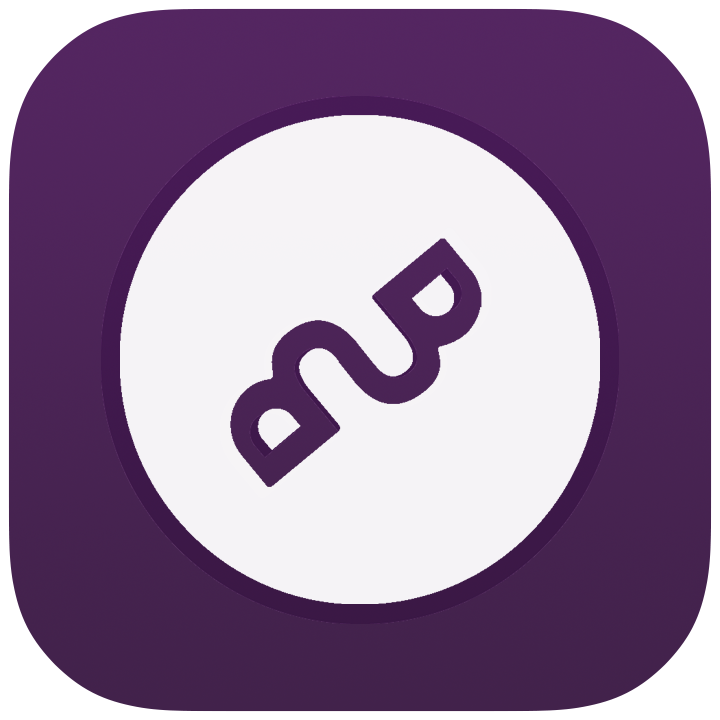
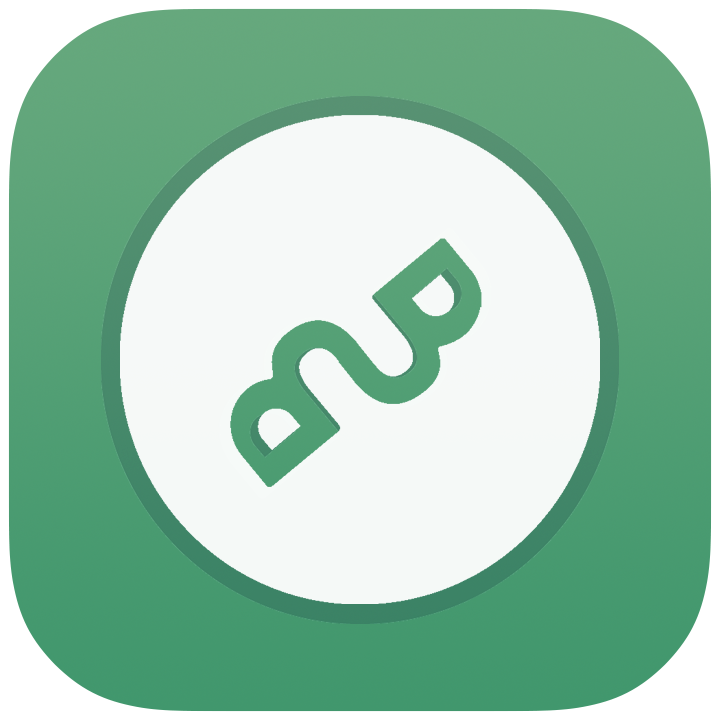
Styling: Adjust Colors

diff --git a/components/layout/Navigation.vue b/components/layout/Navigation.vue
@@ -3,7 +3,9 @@
     <div class="w-full">
       <nav class="navigation">
         <div class="brand">
-          <n-link to="/">get it!</n-link>
+          <n-link to="/" exact>
+            <img src="/img/logo.svg" alt="" width="32" height="32" />
+          </n-link>
         </div>
         <div class="ml-3">
           <ul>
@@ -39,7 +41,7 @@ export default {
 </script>
 <style lang="scss">
 .navigation {
-  @apply relative flex items-center bg-primary rounded-lg text-grey antialiased shadow px-2 py-2;
+  @apply relative flex items-center bg-white rounded-lg text-black antialiased shadow px-2 py-2;
 
   @screen sm {
     @apply px-3;
@@ -53,10 +55,10 @@ export default {
     }
 
     a {
-      @apply text-grey no-underline;
+      @apply text-primary no-underline;
 
       &:hover {
-        @apply text-white;
+        @apply text-info;
       }
     }
 
@@ -74,11 +76,15 @@ export default {
 
     a {
       @apply flex items-center;
-      @apply text-grey px-3 py-2 mx-0 rounded-lg uppercase text-xs font-bold tracking-wider no-underline;
-      @apply transition duration-300 ease-in-out;
+      @apply text-primary px-3 py-2 mx-0 rounded-md uppercase text-xs font-bold tracking-wider no-underline;
+      @apply transition duration-200 ease-in-out;
 
       &:hover {
-        @apply bg-secondary text-white;
+        @apply text-info;
+        .icon {
+          @apply transition duration-300 ease-in-out;
+          transform: translate(0.3rem);
+        }
       }
 
       @screen sm {
@@ -86,7 +92,7 @@ export default {
       }
     }
     .nuxt-link-active {
-      @apply bg-info text-white no-underline;
+      @apply text-primary no-underline;
     }
   }
 }

diff --git a/components/layout/FooterBar.vue b/components/layout/FooterBar.vue
@@ -1,13 +1,17 @@
 <template>
-  <div class="bg-primary">
+  <div class="bg-white">
     <div class="container flex flex-wrap text-sm md:text-base">
       <ul class="bar justify-between text-left content-end">
         <li>
-          <n-link to="/imprint">{{ $t('navbar.imprint') }}</n-link>
+          <n-link to="/imprint" class="text-primary hover:text-info">{{
+            $t('navbar.imprint')
+          }}</n-link>
         </li>
         <li class="text-white opacity-50">&middot;</li>
         <li>
-          <n-link to="/privacy">{{ $t('navbar.privacy_policy') }}</n-link>
+          <n-link to="/privacy" class="text-primary hover:text-info">{{
+            $t('navbar.privacy_policy')
+          }}</n-link>
         </li>
       </ul>
       <ul class="flex flex-wrap content-end ml-auto">

diff --git a/tailwind.config.js b/tailwind.config.js
@@ -15,16 +15,16 @@ module.exports = {
       transparent: 'transparent',
       black: '#000000',
       white: '#ffffff',
-      primary: '#42224b',
-      secondary: '#4e215a',
-      tertiary: '#ff8460',
+      primary: '#41976d',
+      secondary: '#4e9f77',
+      tertiary: '#ddc882',
       dark: '#cbd5e0',
       grey: '#f9f9f9',
       light: '#666C7C',
-      danger: '#f8444f',
-      warning: '#D8AA00',
-      success: '#5ed16a',
-      info: '#9e78a9',
+      danger: '#ed4835',
+      warning: '#f6b749',
+      success: '#66a87d',
+      info: '#96d49b',
     },
     container: {
       center: true,

diff --git a/store/index.js b/store/index.js
@@ -62,7 +62,6 @@ export const actions = {
   },
 
   async getShops({ commit, dispatch, state }) {
-    console.log('getShops')
     const { position } = state
     const { geohash, zoom } = position?.selectedMapPosition
     const shops = await this.$axios.$get(`/api/shops/near/${geohash}`, {
